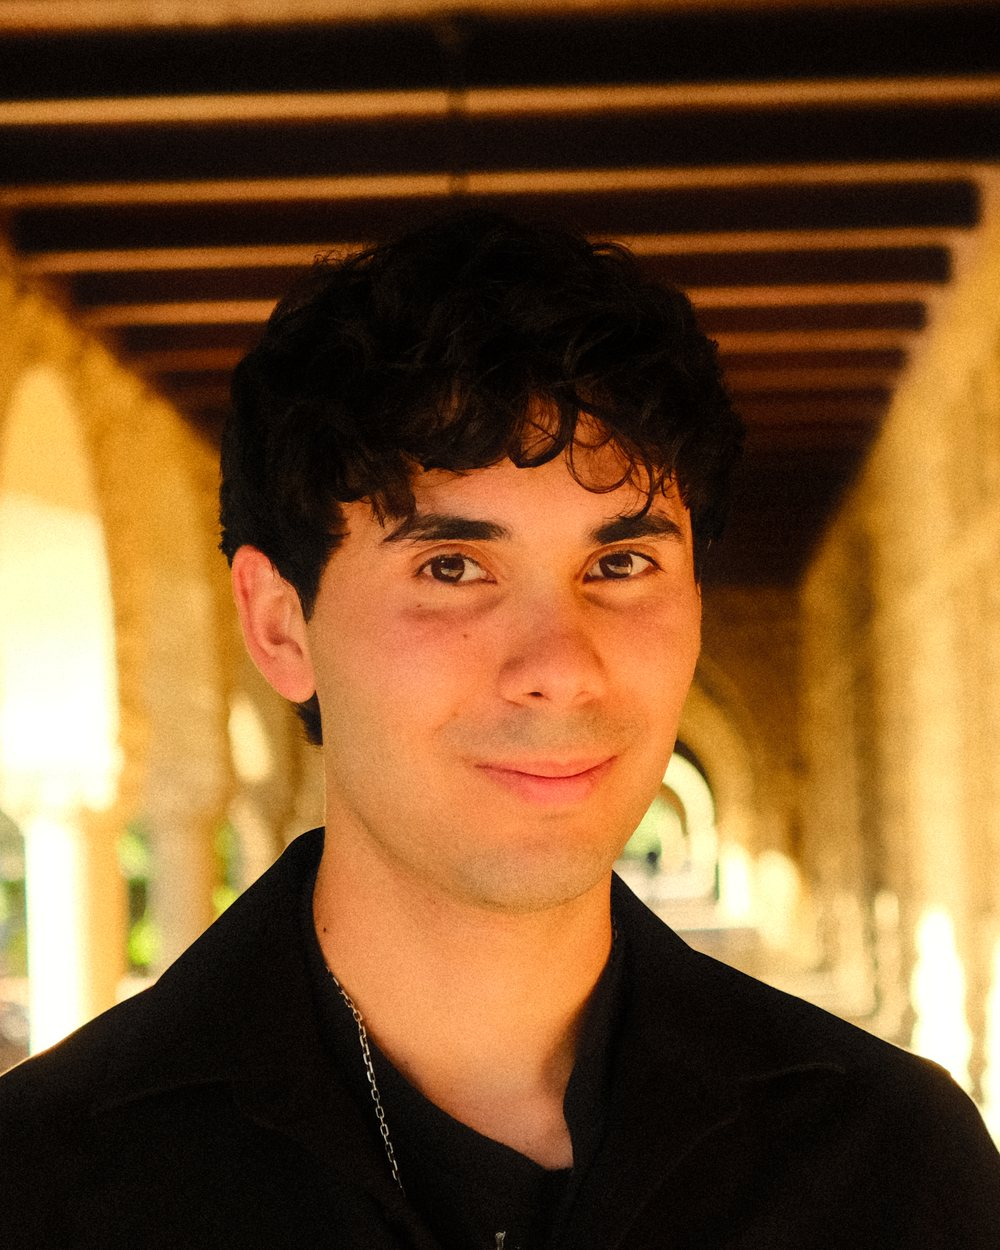
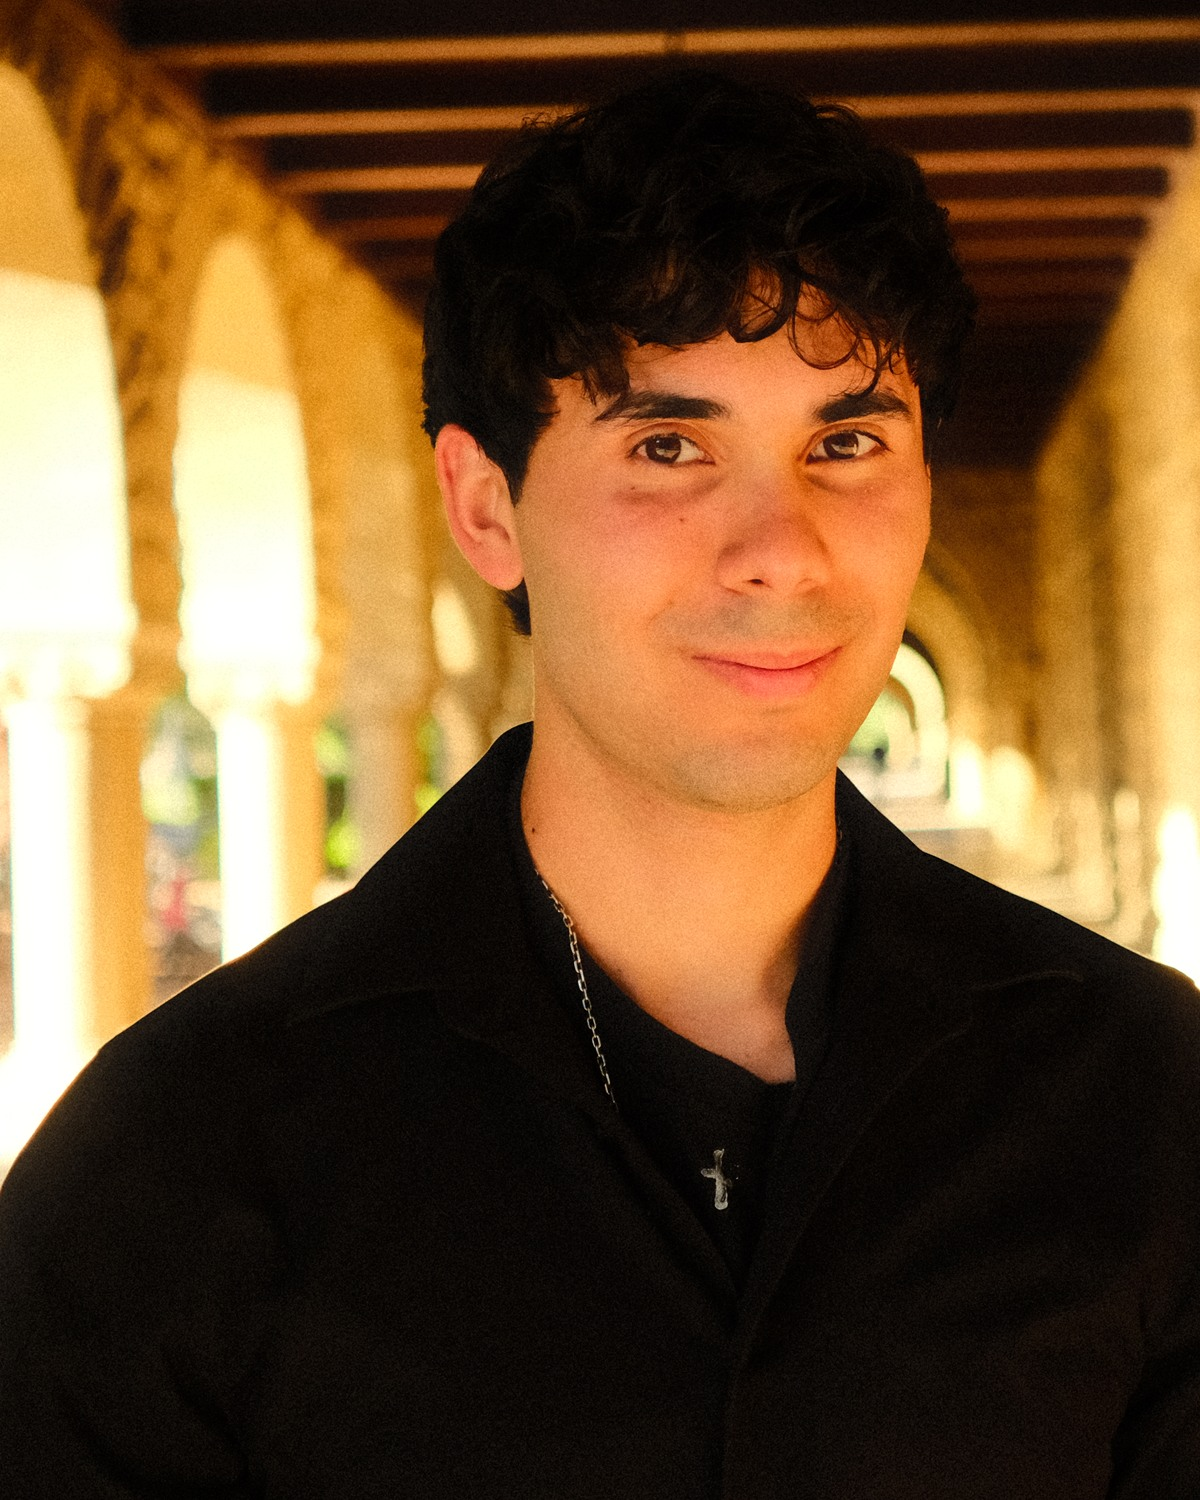
update photo

diff --git a/styles.css b/styles.css
@@ -36,9 +36,9 @@
   .hero-links{display:flex;gap:9px;flex-wrap:wrap;margin-top:26px}
   .hero-links a{font-family:var(--mono);font-size:12px;color:#fff;border:1px solid rgba(255,255,255,0.5);padding:8px 15px;border-radius:9px;transition:all .2s;backdrop-filter:blur(4px)}
   .hero-links a:hover{background:#fff;color:var(--teal-deep);border-color:#fff}
-  .hero-portrait{width:clamp(200px,25vw,310px);flex-shrink:0}
+  .hero-portrait{width:clamp(230px,28vw,360px);flex-shrink:0}
   .hero-portrait .frame{width:100%;aspect-ratio:4/5;border-radius:18px;overflow:hidden;border:5px solid rgba(255,255,255,0.9);box-shadow:0 22px 60px rgba(15,35,45,0.4);
-    background-image:url('images/headshot.jpg');background-size:cover;background-position:center 30%}
+    background-image:url('images/DSCF0167 (1)_4x5_edited.jpg');background-size:cover;background-position:center center}
   .hero-portrait .cap{font-family:var(--mono);font-size:11px;color:rgba(255,255,255,0.9);text-align:center;margin-top:11px;letter-spacing:0.04em;text-shadow:0 1px 8px rgba(15,35,45,0.5)}
   .coords{position:absolute;top:84px;right:clamp(20px,5vw,64px);z-index:2;font-family:var(--mono);font-size:11px;color:rgba(255,255,255,0.82);letter-spacing:0.06em;text-shadow:0 1px 10px rgba(15,35,45,0.4)}
 
